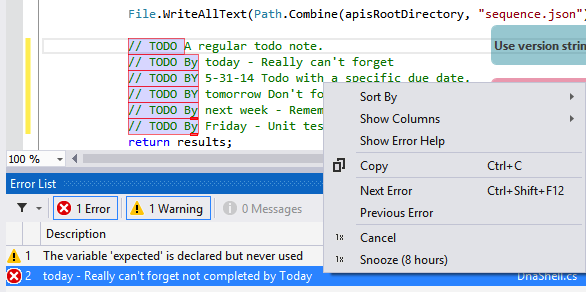
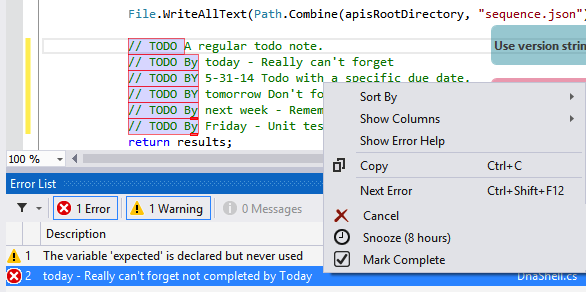
Documentation updates.

Changed region(s): [[0.5529, 0.7089, 1.0, 0.9247]]

diff --git a/README.md b/README.md
@@ -28,8 +28,13 @@ TODO notes can also have **due dates**.  Simply use the following format:
 - **Attach here:** A reminder is attached to the corner of the editor viewport and only displayed when you are at this file.
 - **Attach everywhere:** A reminder is attached to the corner of the editor viewport in all code windows.  You really want to remember it!
 - **Due on:** A reminder that is note taken care of by the specified date will be displayed as a *compile error*!
+- **Mark Complete:** A reminder that has a due by date can be marked complete from the menu.
 - **Show next day:** A reminder will be displayed the next day in all code windows.
 - **Show next week:** A reminder will be displayed the next week in all code windows.  Probably not a big deal.
+
+Example context menu displayed that allows you to mark reminders with a due date complete.
+
+![MarkComplete](https://raw.github.com/chrisparnin/attachables/master/doc/MarkComplete.png)
 
 #### Attachable actions: 
 
@@ -41,7 +46,7 @@ Additional actions are available if you hover over a reminder.
 
 ![menu](https://raw.github.com/chrisparnin/attachables/master/doc/attachablesmenu.png)
 
-If you have an expired todo note, you can use the context menu to *cancel* or *snooze* the reminder.
+If you have an expired todo note, you can use the context menu to *cancel*, *mark done*, or *snooze* the reminder.
 
 ![Cancel](https://raw.github.com/chrisparnin/attachables/master/doc/Cancel.png)
 
